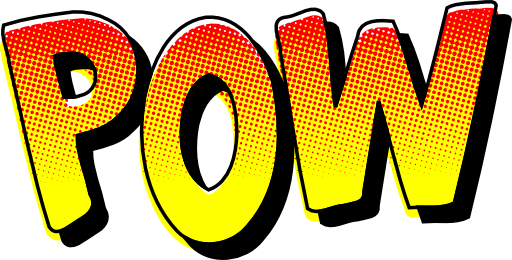
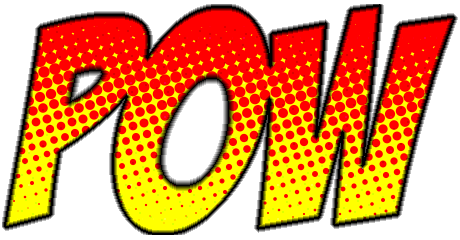
Updated images, added scrolling detection.

diff --git a/mouse.js b/mouse.js
@@ -4,6 +4,45 @@ var lastMouseY = null;
 var lastSpeedX = null;
 var lastSpeedY = null;
 
+
+var checkScrollAccl = (function(settings){
+    settings = settings || {};
+
+    var lastPos, newPos, lastSpeed, newSpeed, timer, delta,
+        delay = settings.delay || 50; // in "ms" (higher means lower fidelity )
+
+    function clear() {
+      lastPos = null;
+      lastSpeed = 0;
+      delta = 0;
+    }
+
+    clear();
+
+    return function(){
+      newPos = window.scrollY;
+      if ( lastPos != null ){ // && newPos < maxScroll
+        delta = newPos -  lastPos;
+      }
+      newSpeed = delta;
+      delta = newSpeed - lastSpeed;
+      lastSpeed = newSpeed;
+      lastPos = newPos;
+      clearTimeout(timer);
+      timer = setTimeout(clear, delay);
+      return delta;
+    };
+})();
+
+// listen to "scroll" event
+window.onscroll = function(){
+  var accl = checkScrollAccl();
+  var threshold = 100;
+  if (Math.abs(accl) > threshold) {
+      playSwoosh();
+  }
+};
+
 document.addEventListener("mousemove", function(e) {
     if (timestamp === null) {
         timestamp = Date.now();
@@ -22,7 +61,7 @@ document.addEventListener("mousemove", function(e) {
     var threshold = 500;
 
     //console.log("Mouse speed (" + speedX + "," + speedY + ")");
-    if ((Math.abs(speedX) > threshold && Math.abs(lastSpeedX) < 40) 
+    if ((Math.abs(speedX) > threshold && Math.abs(lastSpeedX) < 40)
     || (Math.abs(speedY) > threshold) && Math.abs(lastSpeedY) < 40) {
         playSwoosh();
         showSwoosh(e, speedX, speedY);
@@ -59,7 +98,7 @@ function playPunch() {
     var path = choose(paths);
     var myAudio = new Audio();        // create the audio object
     myAudio.src = chrome.runtime.getURL(path); // assign the audio file to its src
-    myAudio.play(); 
+    myAudio.play();
 }
 
 function playSwoosh() {
@@ -70,7 +109,7 @@ function playSwoosh() {
     var path = choose(paths);
     var myAudio = new Audio();        // create the audio object
     myAudio.src = chrome.runtime.getURL(path); // assign the audio file to its src
-    myAudio.play(); 
+    myAudio.play();
 }
 
 function showPunch(e) {
@@ -78,17 +117,27 @@ function showPunch(e) {
     var y = e.pageY + 'px';
     var paths = [
         "img/pow.png",
-        "img/thwack.png"
+        "img/thwack.png",
+        "img/wham.png",
+        "img/bang.png"
     ];
     var path = choose(paths);
     var img = document.createElement("IMG");
     img.src = chrome.extension.getURL(path);
     img.style.width = '50%';
-    img.style.height = 'auto';
-    var div = $("<div class='aaa'>").css({
-        "position": "absolute",                    
+    img.style.height = '50%';
+    img.style.zindex = 99999;
+    img.setAttribute("unselectable","on");
+    var div = $("<div class='aaa' unselectable='on'>").css({
+        "position": "absolute",
         "left": x,
-        "top": y
+        "top": y,
+        "-moz-user-select": "-moz-none",
+        "-khtml-user-select": "none",
+        "-webkit-user-select": "none",
+        "-ms-user-select": "none",
+        "user-select": "none",
+        "z-index":9999
     });
 
     div.append(img);
@@ -119,19 +168,24 @@ function showSwoosh(e, speedX, speedY) {
     var x = e.screenX + dx +  'px';
     var y = e.screenY + dy + 'px';
     var paths = [
-        "img/swoosh1.png",
-        "img/swoosh2.png",
-        "img/swoosh3.png"
+        "img/swoosh.png"
     ];
     var path = choose(paths);
     var img = document.createElement("IMG");
     img.src = chrome.extension.getURL(path);
     img.style.width = '50%';
     img.style.height = 'auto';
+    img.style.zindex = 99999;
     var div = $("<div class='aaa'>").css({
-        "position": "absolute",                    
+        "position": "absolute",
         "left": x,
-        "top": y
+        "top": y,
+        "-moz-user-select": "-moz-none",
+        "-khtml-user-select": "none",
+        "-webkit-user-select": "none",
+        "-ms-user-select": "none",
+        "user-select": "none",
+        "z-index":9999
     });
 
     div.append(img);
